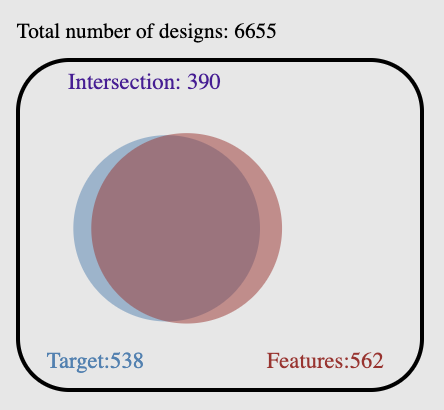
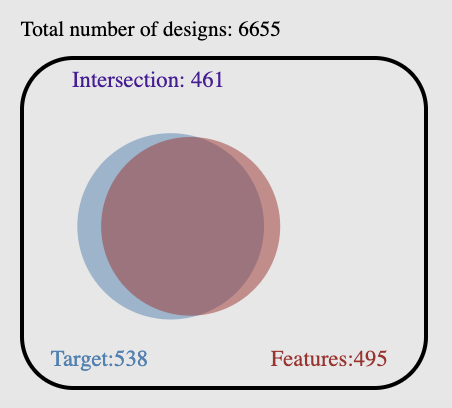
Adds mention of venn diagram in the tutorial. Adds task goal messages

diff --git a/js/experiment_tutorial_content.js b/js/experiment_tutorial_content.js
@@ -38,8 +38,8 @@ function loadTutorialContent(){
             object: undefined,
             content: "<p>The design problem at hand is architecting a constellation of satellites for Earth observation.</p>"
                     +"<p>Each architecture (we will use the term \"architecture\" and \"design\" interchangeably in this experiment) "
-                    +"consists of multiple satellites carrying different sensors "
-                    +"working together to satisfy some measurement requirements related to climate monitoring.</p>",
+                    +"consists of multiple satellites carrying different payload to satisfy some "
+                    +"measurement requirements related to climate monitoring.</p>",
             callback: null,
         },
         { 
@@ -413,6 +413,18 @@ function loadTutorialContent(){
 
 //////////// Feature space plot ///////////////////////////////////////////////////////////////////////////
         { 
+            name: "tutorial-ifeed-feature-space-plot_delay_",
+            object: null,
+            content: "",
+            callback: function(currentStep){
+                setTimeout(function() {
+                    tutorial.intro.exit();
+                    tutorial.set_tutorial_content("tutorial", "tutorial-ifeed-feature-space-plot");
+                }, 500);
+                return;
+            }
+        },
+        { 
             name: "tutorial-ifeed-feature-space-plot",
             object: d3.selectAll('#support_panel').node(),
             content: "<p>Feature Analysis tab provides a visualization that shows how much coverage and specificity different features have.</p>", 
@@ -423,7 +435,7 @@ function loadTutorialContent(){
         }, 
         { 
             name: "tutorial-ifeed-feature-space-plot-2",
-            object: null,
+            object: d3.select('.feature_plot.figure').node(),
             content: "<p>In this plot, each feature is represented as a triangle.</p>"
                     +"<p>The horizontal axis corresponds to the specificity, and the vertical axis corresponds to the coverage of a feature.</p>"
                     +"<p>The color of a triangle represents how complex a feature is. Features that are blue are the simplest, "
@@ -437,7 +449,7 @@ function loadTutorialContent(){
         { 
             name: "tutorial-ifeed-feature-space-plot-mouse-over",
             object: d3.select('#content').node(),
-            content: "<p>As you hover the mouse over each feature, you can notice two changes occurring in the interface.</p>"
+            content: "<p>As you hover the mouse over each feature, you can notice three changes occurring in the interface.</p>"
                     +"<p>(Try hovering the mouse over a feature before continuing)</p>", 
             callback: function(currentStep){
                 tutorial.start_tutorial_event_listener("feature_mouse_hover", currentStep, null);
@@ -455,9 +467,24 @@ function loadTutorialContent(){
         }, 
         { 
             name: "tutorial-ifeed-feature-space-plot-mouse-over-3",
+            object: d3.select('.feature_plot.venn_diagram').node(),
+            content: "<p>Second, there appears a pink circle in the Venn diagram.</p>"
+                    +"<p>The Venn diagram shows the relative sizes of different sets of designs: "
+                    +"target designs (blue circle), and the designs with the selected feature (pink circle)</p>", 
+            callback: function(currentStep){
+                document.getElementById('tab3').click();
+                experiment.feature_application.update_feature_application("direct-update", tutorial_feature_example_f);
+            }
+        }, 
+        { 
+            name: "tutorial-ifeed-feature-space-plot-mouse-over-4",
             object: d3.select('.column.c2').node(),
-            content: "<p>Second, a graphical representation of the feature will appear in the Feature Application panel.</p>"
+            content: "<p>Third, a graphical representation of the feature will appear in the Feature Application panel.</p>"
                     +"<p>The Feature Application panel shows the current feature that is applied.</p>", 
+            callback: function(currentStep){
+                document.getElementById('tab3').click();
+                experiment.feature_application.update_feature_application("temp", tutorial_feature_example_f);
+            }
         }, 
         {  
             name: "tutorial-ifeed-feature-space-plot-mouse-click",
@@ -475,7 +502,7 @@ function loadTutorialContent(){
         { 
             name: "tutorial-ifeed-feature-space-plot-mouse-click-cursor",
             object: null, 
-            content: "Once a feature is clicked, you will see that a cursor appears. "
+            content: "Once a feature is clicked, you will see that a cursor (blinking triangle) appears. "
                     +"The cursor shows where the currently selected feature is located.", 
         }, 
 
@@ -557,13 +584,13 @@ function loadTutorialContent(){
         { 
             name: "tutorial-ifeed-feature-application-interaction-context-menu-add-child-2",
             object: null,
-            content: "<p>Note that the color of the logical connective node turned red. This indicates when you add a condition, "
+            content: "<p>Note that the color of the logical connective node turned orange. This indicates when you add a condition, "
                     +"it will be added under this parent node.</p>",
         }, 
         { 
             name: "tutorial-ifeed-feature-application-interaction-context-menu-add-child-3",
             object: d3.selectAll('#support_panel').node(),
-            content: "<p>Note that the title of the tab (highlighted in red) changed to \"Feature addition mode\". This indicates that when you apply a filter, "
+            content: "<p>Note that the title of the tab (highlighted in orange) changed to \"Feature addition mode\". This indicates that when you apply a filter, "
                     +"it will be added as a condition under the selected logical connective node. </p>"
                     +"<p>To add a new condition, simply define a filter and click the button \"Add new condition\".</p>"
                     +"<p>(To continue, define a new filter by clicking \"Add new condition\" button)</p>",
@@ -599,13 +626,13 @@ function loadTutorialContent(){
         { 
             name: "tutorial-ifeed-feature-application-interaction-context-menu-modify-feature-2",
             object: null, 
-            content: "<p>Similarly as before, the color of the node and its connection to the parent node changed to red. "
+            content: "<p>Similarly as before, the color of the node and its connection to the parent node changed to orange. "
                     +"This indicates that when you test a new condition, it will replace the current node.</p>",
         }, 
         { 
             name: "tutorial-ifeed-feature-application-interaction-context-menu-modify-feature-3",
             object: d3.selectAll('#support_panel').node(),
-            content: "<p>Again, the title text (highlighted in red) indicates that you are currently in \"Feature modification mode\". "
+            content: "<p>Again, the title text (highlighted in orange) indicates that you are currently in \"Feature modification mode\". "
                     +"<p>This time, the arguments of the selected condition have been copied to the filter setting tab. This "
                     +"makes it easier to make modifications to the currently selected condition.</p>"
                     +"<p>(To continue, try making a change to the current condition and apply it by clicking \"Modify the condition\" button)</p>",
@@ -889,7 +916,9 @@ function loadTutorialContent(){
                 +"<p>You can use \"Open instruments and orbits information\" option to view detailed descriptions and other information about the "
                 +"candidate instruments and orbits.</p>"
                 +"<p>You can use \"View sample questions\" option to view some sample questions. This will be useful for "
-                +"getting some idea of what might be asked in the problemset given after the data analysis step.</p>",
+                +"getting some idea of what might be asked in the problemset given after the data analysis step.</p>"
+                +"<p>You can use \"View feature definition\" option to review the definition of features, as well as the concepts of "
+                +"coverage and specificity.</p>",
             callback: function(currentStep){
                 document.getElementById('tab4').click();
             }
@@ -931,9 +960,10 @@ function loadTutorialContent(){
         }, 
         { 
             name: "feature-synthesis-intro-2",
-            object: d3.selectAll('#support_panel').node(),
-            content: "<p>The goal in this part of the experiment is to define the feature that has good coverage and good specificity.</p>"
-                    +"<p>In other words, try to reach the top-right corner of this plot by adding new features.</p>",
+            object: undefined,
+            content: "<p>The goal in this part of the experiment is to define as many features as possible that: </p>"
+                    +"<p><b>(1) are shared by <b>at least 70% of the target designs (coverage of 0.7 or higher)</b></p>"
+                    +"<p><b>(2) and <b>maximizes both coverage and specificity.</b></p>",
             callback: function(){
                 document.getElementById('tab3').click();
             }

diff --git a/js/data_mining.js b/js/data_mining.js
@@ -1151,11 +1151,12 @@ class DataMining{
                     this.utopiaPoint.metrics[3] < currentFeature.metrics[3])
                 {
                     rescalePoints = true;
-
                 }else if(!this.utopiaPoint.metrics[0]){
                     rescalePoints = true;
                 }
             }
+
+            
         }
 
         // Check if 
@@ -1174,7 +1175,7 @@ class DataMining{
             }
 
             // Set the location of the utopia point
-            this.utopiaPoint.metrics = [maxLift, maxSupp, 1.0, 1.0];
+            this.utopiaPoint.metrics = [maxSupp, maxLift, 1.0, 1.0];
 
             // Needed to map the values of the dataset to the color scale
             this.colorInterpolateRainbow = d3.scaleLinear()
@@ -1734,21 +1735,7 @@ class DataMining{
             .text((d) => {
                 return d;
             });
-
-        if(initial_val_min){
-            initial_val_min = +initial_val_min;
-
-            if(initial_val_min < min){
-                initial_val_min = min;
-            }else if(initial_val_min > max){
-                initial_val_min = max
-            }
-
-            d3.select('.feature_space.interaction.complexityFilter.minRange').select('select').node().value = initial_val_min;
-        }else{
-            d3.select('.feature_space.interaction.complexityFilter.minRange').select('select').node().value = min;
-        }
-
+        
         d3.select('.feature_space.interaction.complexityFilter.maxRange')
             .select('select')
             .on("change", () => {
@@ -1770,19 +1757,9 @@ class DataMining{
                 return d;
             });
 
-        if(initial_val_max){
-            initial_val_max = +initial_val_max;
-
-            if(initial_val_max < min){
-                initial_val_max = min;
-            }else if(initial_val_max > max){
-                initial_val_max = max
-            }
-
-            d3.select('.feature_space.interaction.complexityFilter.maxRange').select('select').node().value = initial_val_max;
-        }else{
-            d3.select('.feature_space.interaction.complexityFilter.maxRange').select('select').node().value = max;
-        }
+        d3.select('.feature_space.interaction.complexityFilter.minRange').select('select').node().value = min;
+        d3.select('.feature_space.interaction.complexityFilter.maxRange').select('select').node().value = max; 
+        that.complexityFilterThresholds = [min, max];       
     }
 
     check_if_non_dominated(testFeature, otherFeatures, objective_indices){  

diff --git a/js/experiment.js b/js/experiment.js
@@ -161,8 +161,8 @@ class Experiment{
                     +"are shared by the target designs (highlighted in blue)</p>"
                     +"<p> </p>"
                     +"<p>Look for the features that: </p>"
-                    +"<p> (1) are shared by <b>at least 70% of the target designs (coverage of 0.7 or higher)</p>"
-                    +"<p> (2) and <b>maximizes both coverage and specificity.</p>" 
+                    +"<p><b>(1) are shared by <b>at least 70% of the target designs (coverage of 0.7 or higher)</b></p>"
+                    +"<p><b>(2) and <b>maximizes both coverage and specificity.</b></p>" 
                 that.display_task_goal(title, message);
             });
 
@@ -264,7 +264,20 @@ class Experiment{
     }
 
     load_feature_synthesis_task(){
+        let that = this;
         this.stage = "feature_synthesis";
+
+        d3.select("#task_goal_view_button")
+            .on("click", () => {
+                let title = "Feature Synthesis Task";
+                let message = "<p>Try to define as many features as possible that: "
+                    +"<p><b>(1) are shared by <b>at least 70% of the target designs (coverage of 0.7 or higher)</b></p>"
+                    +"<p><b>(2) and <b>maximizes both coverage and specificity.</b></p>"
+
+                    +"<p>You can define new features using the Filter Setting tab. </p>";
+                that.display_task_goal(title, message);
+            });
+
         d3.select("#tab1").text('-');
         d3.select("#view1").selectAll('g').remove();
 
@@ -366,7 +379,17 @@ class Experiment{
     }
 
     load_design_synthesis_task(){
+        let that = this;
         this.stage = "design_synthesis";
+
+        d3.select("#task_goal_view_button")
+            .on("click", () => {
+                let title = "Design Synthesis Task";
+                let message = "<p>Try to create as many architectures as possible that are close "
+                    +"to, or inside the target region (highlighted in light blue color).";
+                that.display_task_goal(title, message);
+            });
+
         d3.select("#tab1").text('Inspect Design');
         this.tradespace_plot.initialize();
 
@@ -681,7 +704,7 @@ class Experiment{
             message: message,
             messageSize: 22,
             position: 'topCenter',
-            timeout: 60000,
+            timeout: 45000,
         });
     }
 

diff --git a/js/experiment_tutorial.js b/js/experiment_tutorial.js
@@ -439,6 +439,8 @@ class ExperimentTutorial{
 
         // Update the target object
         this.updateContentObject(stageContent, "tutorial-ifeed-filter-options", d3.select('.filter.options.dropdown').node());
+        this.updateContentObject(stageContent, "tutorial-ifeed-feature-space-plot-2", d3.select('.feature_plot.figure').node());
+        this.updateContentObject(stageContent, "tutorial-ifeed-feature-space-plot-mouse-over-3", d3.select('.feature_plot.venn_diagram').node());
         this.updateContentObject(stageContent, "tutorial-ifeed-feature-interactive-intro", d3.select('#feature_space_display_options_container').node());
         this.updateContentObject(stageContent, "tutorial-ifeed-feature-interactive-local-search-1", d3.select('.feature_space_interaction.localSearch.container').node());
         this.updateContentObject(stageContent, "tutorial-ifeed-feature-interactive-generalization-1", d3.select('.feature_space_interaction.generalization.container').node());

diff --git a/js/EOSSAssigning/problem.js b/js/EOSSAssigning/problem.js
@@ -670,7 +670,7 @@ class EOSSAssigning extends Problem{
                             +"<p></p>",
                     messageSize: 22,
                     position: 'topCenter',
-                    timeout: 60000,
+                    timeout: 45000,
                 });
             })
             .text("View task goal");
